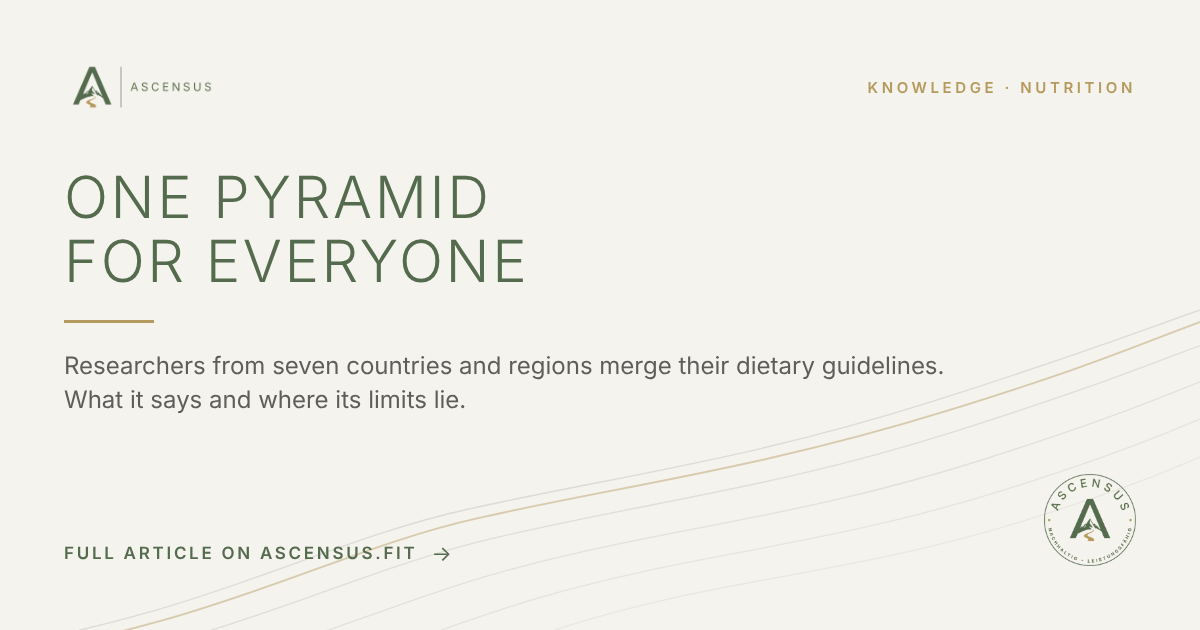
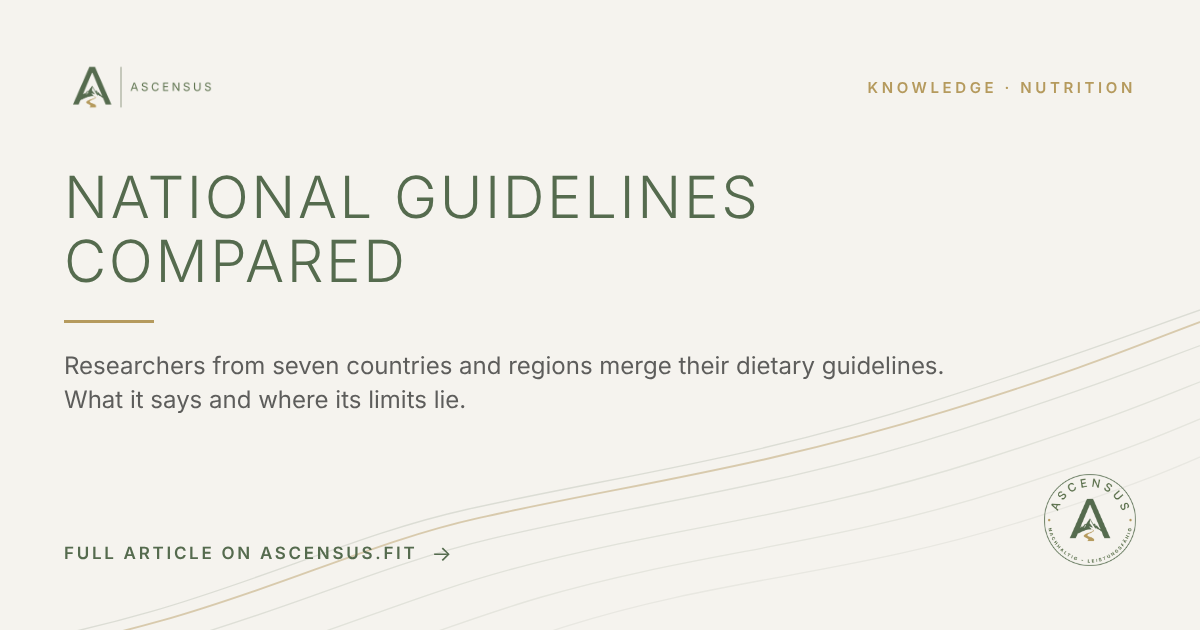
Wissen: Neuer Titel und überarbeitete ASCENSUS-Sicht (Pyramide-Artikel)
Titel "Nationale Ernährungsleitlinien im internationalen Vergleich" in DE
und EN, Kacheln und OG-Bilder angepasst. ASCENSUS-Sicht betont
Leitlinien statt Dogmen und die Abgrenzung zur Sporternährung; neuer
Punkt im Einordnungskasten. Überschrift mobil kleiner gesetzt.

Claude-Session: https://claude.ai/code/session_01XV4KLYiNXvM8qo3E7Xaqtb

Changed region(s): [[0.0308, 0.2714, 0.6475, 0.4524]]

diff --git a/wissen-ernaehrungspyramide.html b/wissen-ernaehrungspyramide.html
@@ -3,7 +3,7 @@
 <head>
 <meta charset="utf-8">
 <meta name="viewport" content="width=device-width, initial-scale=1">
-<title>Eine Pyramide für alle: Was die neue internationale Ernährungspyramide sagt – ASCENSUS Wissen</title>
+<title>Nationale Ernährungsleitlinien im internationalen Vergleich: Was die neueste Forschung aus dem September 2026 sagt – ASCENSUS Wissen</title>
 <meta name="description" content="Forschende haben Ernährungsleitlinien aus sieben Ländern und Regionen zu einer gemeinsamen Pyramide verdichtet. Was darin steht, wie belastbar das ist und was Du im Alltag damit anfangen kannst.">
 <link rel="canonical" href="https://ascensus.fit/wissen-ernaehrungspyramide.html">
 <link rel="alternate" hreflang="de" href="https://ascensus.fit/wissen-ernaehrungspyramide.html">
@@ -11,7 +11,7 @@
 <link rel="alternate" hreflang="x-default" href="https://ascensus.fit/wissen-ernaehrungspyramide.html">
 <link rel="icon" href="favicon-512.png">
 <link rel="apple-touch-icon" href="apple-touch-icon.png">
-<meta property="og:title" content="Eine Pyramide für alle: Was die neue internationale Ernährungspyramide sagt">
+<meta property="og:title" content="Nationale Ernährungsleitlinien im internationalen Vergleich: Was die neueste Forschung aus dem September 2026 sagt">
 <meta property="og:description" content="Forschende haben Ernährungsleitlinien aus sieben Ländern und Regionen zu einer gemeinsamen Pyramide verdichtet. Was darin steht, wie belastbar das ist und was Du im Alltag damit anfangen kannst.">
 <meta property="og:image" content="https://ascensus.fit/wissen-ernaehrungspyramide-og.png">
 <meta property="og:url" content="https://ascensus.fit/wissen-ernaehrungspyramide.html">
@@ -22,7 +22,7 @@
 {
   "@context": "https://schema.org",
   "@type": "Article",
-  "headline": "Eine Pyramide für alle: Was die neue internationale Ernährungspyramide sagt",
+  "headline": "Nationale Ernährungsleitlinien im internationalen Vergleich: Was die neueste Forschung aus dem September 2026 sagt",
   "description": "Forschende haben Ernährungsleitlinien aus sieben Ländern und Regionen zu einer gemeinsamen Pyramide verdichtet. Was darin steht, wie belastbar das ist und was Du im Alltag damit anfangen kannst.",
   "image": "https://ascensus.fit/wissen-ernaehrungspyramide-og.png",
   "datePublished": "2026-11-18",
@@ -107,9 +107,10 @@ a:focus-visible,button:focus-visible{outline:2px solid var(--sand);outline-offse
 .lang-switch a:hover{color:var(--olive)}
 .lang-switch .cur{color:var(--olive)}
 .art-head h1{
-  font-size:clamp(1.85rem,4.6vw,3rem);
-  font-weight:300;letter-spacing:.045em;text-transform:uppercase;
-  line-height:1.12;color:var(--olive);
+  font-size:clamp(1.45rem,4.2vw,2.6rem);
+  font-weight:300;letter-spacing:.03em;text-transform:uppercase;
+  line-height:1.15;color:var(--olive);
+  overflow-wrap:break-word;hyphens:manual;
 }
 .art-lead{
   margin-top:1.4rem;font-size:clamp(1.05rem,2vw,1.2rem);line-height:1.6;color:var(--ink-60);
@@ -360,7 +361,7 @@ svg.ic{width:30px;height:30px;fill:none;stroke:currentColor;stroke-width:1.5;str
         <a class="crumb" href="wissen.html">← Wissen</a>
       </div>
       <p class="eyebrow">Ernährung</p>
-      <h1>Eine Pyramide für alle: Was die neue internationale Ernährungspyramide sagt</h1>
+      <h1>Nationale Ernährungs&shy;leitlinien im internationalen Vergleich: Was die neueste Forschung aus dem September 2026 sagt</h1>
       <p class="art-lead">Mal sind Eier gut, mal schlecht, mal sind Kohlenhydrate das Problem. Eine neue internationale Pyramide zeigt: Im Kern sind sich die Leitlinien erstaunlich einig. Wir schauen, was drinsteht und wo die Grenzen liegen.</p>
       <div class="art-meta">
         <div class="art-author">
@@ -473,6 +474,7 @@ svg.ic{width:30px;height:30px;fill:none;stroke:currentColor;stroke-width:1.5;str
         <li>Sie richtet sich an gesunde Menschen ab 2 Jahren. Für Erkrankungen, Schwangerschaft und Stillzeit sind andere Empfehlungen nötig.</li>
         <li>Sie zeigt Verhältnisse, keine festen Portionen für Dich. Der Energiebedarf ist individuell.</li>
         <li>Sie ist keine Anleitung zum Abnehmen.</li>
+        <li>Sie beschreibt eine gesunde, abwechslungsreiche Ernährung und ist keine Sporternährung. Training, Wettkampf oder gezielter Muskelaufbau können andere Anpassungen erfordern.</li>
       </ul>
       <p>Zu Eiweiß hält das Paper 0,8 g pro kg Körpergewicht für die meisten Erwachsenen ausreichend und erwähnt, dass etwas mehr Eiweiß beim Abnehmen und im höheren Alter die Muskelmasse unterstützen könnte. Mehr dazu in unserem <a href="wissen-eiweiss.html">Artikel zu Eiweiß</a>.</p>
       <p>Wer wenig oder gar keine tierischen Lebensmittel isst, sollte laut Paper auf Vitamin B12 achten. Was für Dich passt, klärst Du am besten ärztlich.</p>
@@ -499,8 +501,10 @@ svg.ic{width:30px;height:30px;fill:none;stroke:currentColor;stroke-width:1.5;str
     <section class="view" aria-label="Die ASCENSUS-Sicht">
       <p class="eyebrow">Die ASCENSUS-Sicht</p>
       <p>An der Pyramide gefällt mir vor allem eins: Sie sagt nicht „Iss nie wieder X“, sondern „Mach öfter Y“. Das passt zu der Art, wie ich arbeite.</p>
-      <p>Eine Pyramide kennt aber Deinen Alltag nicht. Sie weiß nicht, wann Du Feierabend hast, ob Du kochst oder viel unterwegs bist und was Du wirklich gern isst. In meiner Beratung schauen wir deshalb zuerst auf das, was tatsächlich auf Deinem Teller landet. In der ersten Woche halten wir Deinen Alltag fest, ohne ihn zu bewerten. Danach sehen wir gemeinsam, wo ein kleiner Schritt am meisten bringt, individuell und ohne Verbotsliste.</p>
-      <p>Wenn Du Lust hast, schauen wir in einem kostenlosen Erstgespräch gemeinsam auf Deinen Alltag, ohne Verkaufsdruck.</p>
+      <p>Leitlinien sind Orientierung, keine Dogmen. Sie beschreiben, was für eine gesunde und abwechslungsreiche Ernährung im Durchschnitt gilt, und sie ersetzen nicht, dass ich auf den einzelnen Menschen eingehe. Eine Pyramide kennt Deinen Alltag nicht. Sie weiß nicht, wann Du Feierabend hast, ob Du kochst oder viel unterwegs bist und was Du wirklich gern isst.</p>
+      <p>Dazu kommt: Hier geht es um gesunde Ernährung, nicht um Sporternährung. Wer trainiert, auf einen Wettkampf hinarbeitet oder gezielt Muskeln aufbauen will, hat oft ganz andere Anforderungen, und die haben mit gesunder Ernährung im Alltag nicht zwingend etwas zu tun. Dann können zum Beispiel mehr als die 0,8 g Eiweiß pro kg Körpergewicht sinnvoll sein, und eine sehr ballaststoffreiche Mahlzeit direkt vor einem langen Lauf ist für viele eher hinderlich. Solche Anpassungen sind bewusste Werkzeuge, die zum Ziel passen müssen.</p>
+      <p>In meiner Beratung schauen wir deshalb zuerst auf das, was tatsächlich auf Deinem Teller landet. In der ersten Woche halten wir Deinen Alltag fest, ohne ihn zu bewerten. Danach sehen wir gemeinsam, wo ein kleiner Schritt am meisten bringt, individuell und ohne Verbotsliste.</p>
+      <p>Lass uns gemeinsam schauen, was bei Dir geht: in einem kostenlosen Erstgespräch, ohne Verkaufsdruck.</p>
       <div class="sign">
         <img src="patrick-warm.jpg" alt="" width="40" height="40">
         <span>Patrick Spengler · ASCENSUS</span>

diff --git a/wissen-ernaehrungspyramide-en.html b/wissen-ernaehrungspyramide-en.html
@@ -3,7 +3,7 @@
 <head>
 <meta charset="utf-8">
 <meta name="viewport" content="width=device-width, initial-scale=1">
-<title>One Pyramid for Everyone: What the New International Food Pyramid Says – ASCENSUS Knowledge</title>
+<title>National Dietary Guidelines Compared Internationally: What the Latest Research from September 2026 Says – ASCENSUS Knowledge</title>
 <meta name="description" content="Researchers have condensed dietary guidelines from seven countries and regions into one shared pyramid. What it says, how robust it is and what you can do with it in everyday life.">
 <link rel="canonical" href="https://ascensus.fit/wissen-ernaehrungspyramide-en.html">
 <link rel="alternate" hreflang="de" href="https://ascensus.fit/wissen-ernaehrungspyramide.html">
@@ -11,7 +11,7 @@
 <link rel="alternate" hreflang="x-default" href="https://ascensus.fit/wissen-ernaehrungspyramide.html">
 <link rel="icon" href="favicon-512.png">
 <link rel="apple-touch-icon" href="apple-touch-icon.png">
-<meta property="og:title" content="One Pyramid for Everyone: What the New International Food Pyramid Says">
+<meta property="og:title" content="National Dietary Guidelines Compared Internationally: What the Latest Research from September 2026 Says">
 <meta property="og:description" content="Researchers have condensed dietary guidelines from seven countries and regions into one shared pyramid. What it says, how robust it is and what you can do with it in everyday life.">
 <meta property="og:image" content="https://ascensus.fit/wissen-ernaehrungspyramide-en-og.png">
 <meta property="og:url" content="https://ascensus.fit/wissen-ernaehrungspyramide-en.html">
@@ -22,7 +22,7 @@
 {
   "@context": "https://schema.org",
   "@type": "Article",
-  "headline": "One Pyramid for Everyone: What the New International Food Pyramid Says",
+  "headline": "National Dietary Guidelines Compared Internationally: What the Latest Research from September 2026 Says",
   "description": "Researchers have condensed dietary guidelines from seven countries and regions into one shared pyramid. What it says, how robust it is and what you can do with it in everyday life.",
   "image": "https://ascensus.fit/wissen-ernaehrungspyramide-en-og.png",
   "datePublished": "2026-11-18",
@@ -107,9 +107,10 @@ a:focus-visible,button:focus-visible{outline:2px solid var(--sand);outline-offse
 .lang-switch a:hover{color:var(--olive)}
 .lang-switch .cur{color:var(--olive)}
 .art-head h1{
-  font-size:clamp(1.85rem,4.6vw,3rem);
-  font-weight:300;letter-spacing:.045em;text-transform:uppercase;
-  line-height:1.12;color:var(--olive);
+  font-size:clamp(1.45rem,4.2vw,2.6rem);
+  font-weight:300;letter-spacing:.03em;text-transform:uppercase;
+  line-height:1.15;color:var(--olive);
+  overflow-wrap:break-word;hyphens:manual;
 }
 .art-lead{
   margin-top:1.4rem;font-size:clamp(1.05rem,2vw,1.2rem);line-height:1.6;color:var(--ink-60);
@@ -360,7 +361,7 @@ svg.ic{width:30px;height:30px;fill:none;stroke:currentColor;stroke-width:1.5;str
         <a class="crumb" href="wissen-en.html">← Knowledge</a>
       </div>
       <p class="eyebrow">Nutrition</p>
-      <h1>One Pyramid for Everyone: What the New International Food Pyramid Says</h1>
+      <h1>National Dietary Guidelines Compared Internationally: What the Latest Research from September 2026 Says</h1>
       <p class="art-lead">One day eggs are good, the next day they are bad, and then carbohydrates are the problem. A new international pyramid shows that at their core, the guidelines agree surprisingly well. We look at what it says and where its limits lie.</p>
       <div class="art-meta">
         <div class="art-author">
@@ -473,6 +474,7 @@ svg.ic{width:30px;height:30px;fill:none;stroke:currentColor;stroke-width:1.5;str
         <li>It is aimed at healthy people aged 2 and older. Other recommendations are needed for illness, pregnancy and breastfeeding.</li>
         <li>It shows proportions, not fixed portions for you. Energy needs are individual.</li>
         <li>It is not a guide to losing weight.</li>
+        <li>It describes healthy, varied eating and is not sports nutrition. Training, competition or targeted muscle building can call for different adjustments.</li>
       </ul>
       <p>On protein, the paper considers 0.8 g per kg of body weight sufficient for most adults and mentions that somewhat more protein could support muscle mass during weight loss and in older age. More on this in our <a href="wissen-eiweiss-en.html">article on protein</a>.</p>
       <p>According to the paper, anyone who eats few or no animal foods should pay attention to vitamin B12. What suits you is best clarified with a doctor.</p>
@@ -499,8 +501,10 @@ svg.ic{width:30px;height:30px;fill:none;stroke:currentColor;stroke-width:1.5;str
     <section class="view" aria-label="The ASCENSUS View">
       <p class="eyebrow">The ASCENSUS View</p>
       <p>What I like most about the pyramid is one thing: it does not say “never eat X again”, it says “do more of Y”. That fits the way I work.</p>
-      <p>A pyramid does not know your everyday life, though. It does not know when you finish work, whether you cook or are on the road a lot, and what you really like to eat. In my coaching, we therefore first look at what actually ends up on your plate. In the first week we record your everyday life without judging it. After that we see together where a small step brings the most, individually and without a list of bans.</p>
-      <p>If you like, in a free intro call we can look together at your everyday life, with no sales pressure.</p>
+      <p>Guidelines are orientation, not dogma. They describe what holds on average for healthy and varied eating, and they do not replace my looking at the individual person. A pyramid does not know your everyday life. It does not know when you finish work, whether you cook or are on the road a lot, and what you really like to eat.</p>
+      <p>On top of that, this is about healthy eating, not sports nutrition. If you train, work toward a competition or want to build muscle on purpose, your requirements are often quite different, and they do not necessarily have anything to do with healthy everyday eating. Then, for example, more than the 0.8 g of protein per kg of body weight can make sense, and a very high-fiber meal right before a long run is more of a hindrance for many people. Such adjustments are deliberate tools that have to fit the goal.</p>
+      <p>In my coaching, we therefore first look at what actually ends up on your plate. In the first week we record your everyday life without judging it. After that we see together where a small step brings the most, individually and without a list of bans.</p>
+      <p>Let’s look together at what works for you: in a free intro call, with no sales pressure.</p>
       <div class="sign">
         <img src="patrick-warm.jpg" alt="" width="40" height="40">
         <span>Patrick Spengler · ASCENSUS</span>

diff --git a/index-en.html b/index-en.html
@@ -995,7 +995,7 @@ a:focus-visible,button:focus-visible{outline:2px solid var(--sand);outline-offse
 <!-- WISSEN-START · exactly the latest tiles, identical to wissen-en.html -->
 <a class="post" href="wissen-ernaehrungspyramide-en.html">
   <span class="post-cat">Nutrition</span>
-  <h3>One Pyramid for Everyone: What the New International Food Pyramid Says</h3>
+  <h3>National Dietary Guidelines Compared Internationally: What the Latest Research from September 2026 Says</h3>
   <p>One day eggs are good, the next day they are bad, and then carbohydrates are the problem. A new international pyramid shows that at their core, the guidelines agree surprisingly well. We look at what it says and where its limits lie.</p>
   <div class="post-foot">
     <span>Nov 18, 2026</span>

diff --git a/index.html b/index.html
@@ -1024,7 +1024,7 @@ a:focus-visible,button:focus-visible{outline:2px solid var(--sand);outline-offse
 <!-- WISSEN-START · genau die neuesten Kacheln, identisch zu wissen.html -->
 <a class="post" href="wissen-ernaehrungspyramide.html">
   <span class="post-cat">Ernährung</span>
-  <h3>Eine Pyramide für alle: Was die neue internationale Ernährungspyramide sagt</h3>
+  <h3>Nationale Ernährungsleitlinien im internationalen Vergleich: Was die neueste Forschung aus dem September 2026 sagt</h3>
   <p>Mal sind Eier gut, mal schlecht, mal sind Kohlenhydrate das Problem. Eine neue internationale Pyramide zeigt: Im Kern sind sich die Leitlinien erstaunlich einig. Wir schauen, was drinsteht und wo die Grenzen liegen.</p>
   <div class="post-foot">
     <span>18.11.2026</span>

diff --git a/wissen-en.html b/wissen-en.html
@@ -202,7 +202,7 @@ a:focus-visible,button:focus-visible{outline:2px solid var(--sand);outline-offse
 <!-- BEITRAEGE:START  · always insert the newest article at the top -->
 <a class="post" href="wissen-ernaehrungspyramide-en.html">
   <span class="post-cat">Nutrition</span>
-  <h3>One Pyramid for Everyone: What the New International Food Pyramid Says</h3>
+  <h3>National Dietary Guidelines Compared Internationally: What the Latest Research from September 2026 Says</h3>
   <p>One day eggs are good, the next day they are bad, and then carbohydrates are the problem. A new international pyramid shows that at their core, the guidelines agree surprisingly well. We look at what it says and where its limits lie.</p>
   <div class="post-foot">
     <span>Nov 18, 2026</span>

diff --git a/wissen.html b/wissen.html
@@ -204,7 +204,7 @@ a:focus-visible,button:focus-visible{outline:2px solid var(--sand);outline-offse
 <!-- BEITRAEGE:START  · neuester Beitrag immer oben einfügen -->
 <a class="post" href="wissen-ernaehrungspyramide.html">
   <span class="post-cat">Ernährung</span>
-  <h3>Eine Pyramide für alle: Was die neue internationale Ernährungspyramide sagt</h3>
+  <h3>Nationale Ernährungsleitlinien im internationalen Vergleich: Was die neueste Forschung aus dem September 2026 sagt</h3>
   <p>Mal sind Eier gut, mal schlecht, mal sind Kohlenhydrate das Problem. Eine neue internationale Pyramide zeigt: Im Kern sind sich die Leitlinien erstaunlich einig. Wir schauen, was drinsteht und wo die Grenzen liegen.</p>
   <div class="post-foot">
     <span>18.11.2026</span>
